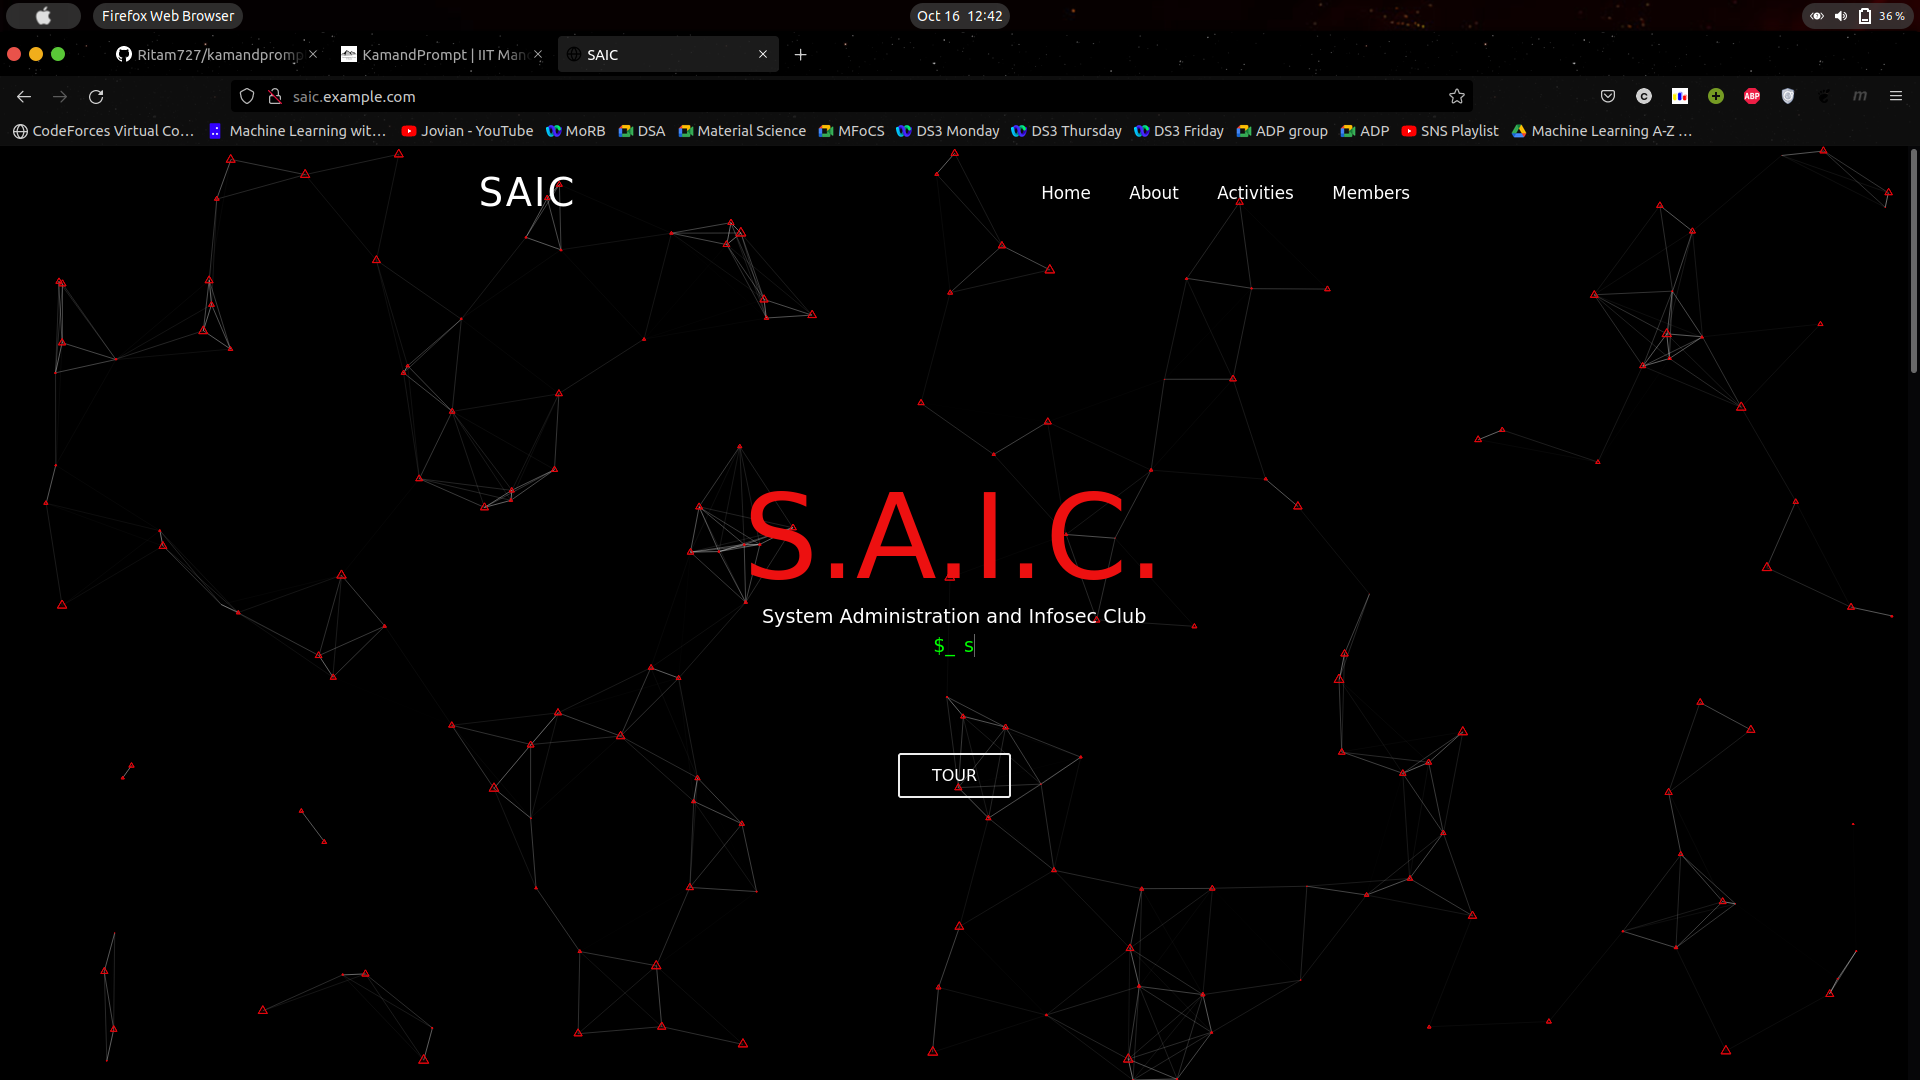
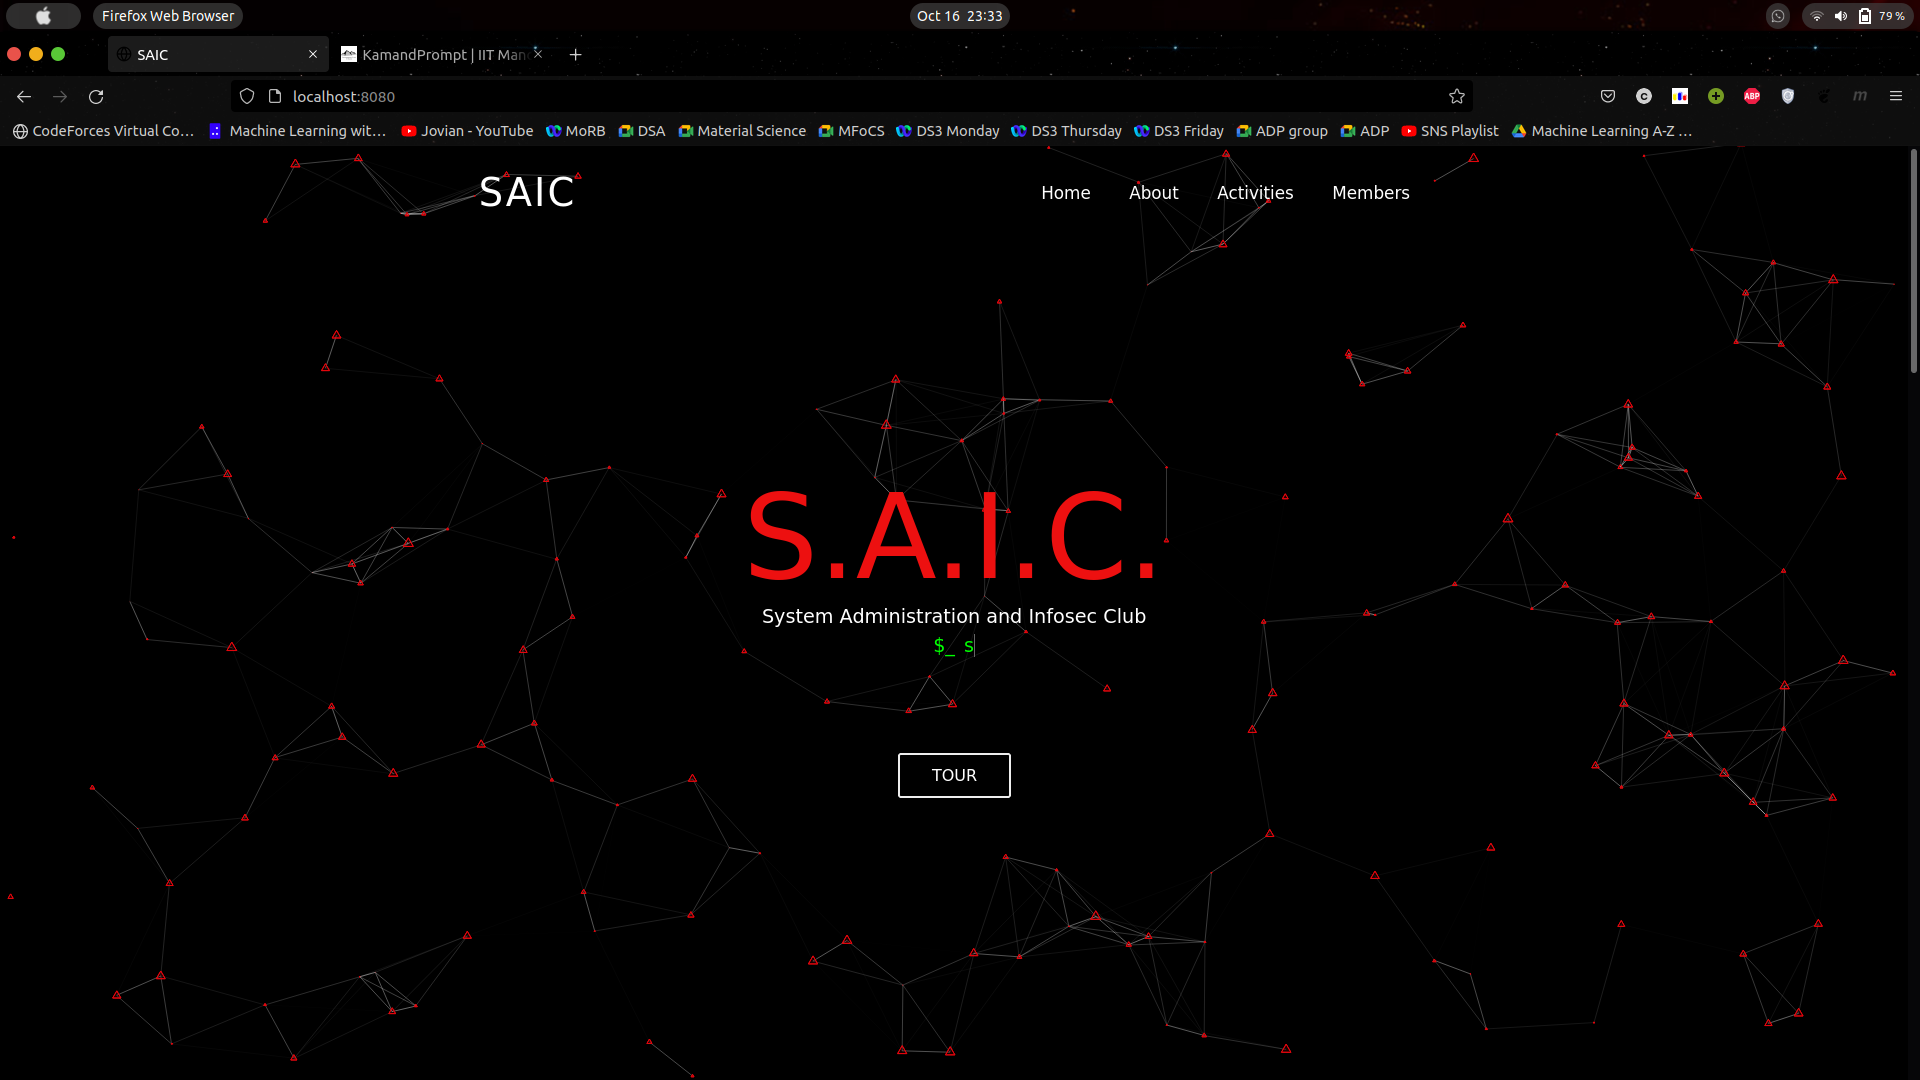
Finalized Task3

diff --git a/task3.md b/task3.md
@@ -1,17 +1,38 @@
 # Task 3
 After installing docker, I was basically lost, I didn't know anything about how the program works. So all I had with me was our best friend **Google**.
 
-Since we had to host two *static websites*, so I decided to simply implement a workflow only with static websites. Since hosting works with a server, I had to find a way to use a server and host the websites on it using docker. So I first tested out with a basic **Hello World** html file and the apache2 image from docker which uses apache web server. This was a fairly easy task since we ran a single website on a single docker. But the main challenge here is to run both websites  from the same container.
+Since we had to host two *static websites*, so I decided to simply implement a workflow only with static websites. Since hosting works with a server, I had to find a way to use a server and host the websites on it using docker. So I first tested out with a basic **Hello World** html file and the apache2 image from docker which uses apache web server. This was a fairly easy task since we ran a single website on a single container. But the main challenge here wass to run both websites from the same container.
 
-So I did the following steps:
-1. Create a new directory and clone both the repositories in that directory:
-
-    `$ mkdir saic_test && cd saic_test/`
-
-    `$ git clone git@github.com:Ritam727/kamandprompt.github.io.git`
+So I searched for some workarounds. I found out that it is possible to set up virtual hosts with a webserver and use different ports on the same ip address for two different websites.I used ubuntu/apache2 image from docker to run the server. The process I followed is described in the following steps:
+1. Clone both the repositories in a common directory:
+    
+    `$ mkdir saic && cd saic/`
 
     `$ git clone git@github.com:Ritam727/SAIC-Website.git`
-2. Create a Dockerfile and configure the commands and server to use:
+
+    `$ git clone git@github.com:Ritam727/kamandprompt.github.io.git`
+2. Create a configuration file for the webserver, set up two ports for two websites:
+    
+    `$ nano saic_test.conf`
+
+    Inside the editor, I wrote the following lines, saved and quit the editor:
+
+    ```
+    <VirtualHost *:80>
+        ServerName localhost
+        DocumentRoot /var/www/saic_website
+    </VirtualHost>
+
+    Listen 81
+    <VirtualHost *:81>
+        ServerName localhost
+        DocumentRoot /var/www/kp_website
+        Redirect permanent /blog http://blog.pc.iitmandi.co.in
+    </VirtualHost>
+    ```
+
+    The `Listen 81` command is necessary to instantiate the port 81 and the `Redirect permanent /blog http://blog.pc.iitmandi.co.in` is necessary to redirect the link to the designated site.
+3. Create the Dockerfile:
 
     `$ nano Dockerfile`
 
@@ -19,83 +40,50 @@ So I did the following steps:
 
     ```
     FROM ubuntu/apache2:2.4-20.04_beta
-    COPY SAIC-Website/. /var/www/saic.example.com
-    COPY saic.example.com.conf /etc/apache2/sites-available/
-    RUN a2ensite saic.example.com
-    COPY kamandprompt.github.io/. /var/www/kp.example.com
-    COPY kp.example.com.conf /etc/apache2/sites-available/
-    RUN a2ensite kp.example.com
+    COPY SAIC-Website/. /var/www/saic_website
+    COPY kamandprompt.github.io/. /var/www/kp_website
+    COPY saic_test.conf /etc/apache2/sites-available/
+    RUN a2ensite saic_test
     RUN service apache2 start
     ```
-3. Create the files mentioned in the Dockerfile and enter the following lines:
 
-    `$ nano saic.example.com.conf`
-
-    Inside the file enter the following lines and save the file:
+    This file would be used to run the create the docker image.
+4. Build the docker image and test it locally:
     
-    ```
-    <VirtualHost>
-        ServerName saic.example.com
-        DocumentRoot /var/www/saic.example.com
-    </VirtualHost>
-    ```
-
-    `$ nano kp.example.com.conf`
-
-    Inside the editor, enter the following lines and save the file:
-
-    ```
-    <VirtualHost>
-        ServerName kp.example.com
-        DocumentRoot /var/www/kp.example.com
-    </VirtualHost>
-    ```
-4. Change the file called etc/hosts in my **local machine**(this step is necessary):
-
-    `$ sudo nano /etc/hosts`
-
-    Add the following lines to the end of the file:
-
-    ```
-    127.0.0.1       saic.example.com
-    127.0.0.1       kp.example.com
-    ```
-
-    This change ensures that the above domains work in the local system.
-5. Then I used `build` command to build the *container*.
+    The following command is used to generate an image for your user id in docker hub and use the Dockerfile created:
     
-    `$ sudo docker build -t zblaster/saic_test:latest .`
+    `$ sudo docker build -t <user-name>/<package-name>:[TAG] .`
 
-    This builds the image and makes it ready for publication. For running the image:
+    In my case, the command was:
+    
+    `$ sudo docker build -t zblaster/saic:latest .`
 
-    `$ sudo docker run -dit --name saic -p 80:80 zblaster/saic_test:latest`
+    Then, to run the image in a container, the following command is used:
 
-    This command runs the image on port 80 of the above mentioned domains.
+    `$ sudo docker run -dit <other-flags> <user-name>/<package-name>:[TAG]`
 
-**Saic Website**
-![Saic Image](/images/task3_saic.png)
+    In my case the following command was used:
 
-We can see that the SAIC website is up and running on `saic.example.com`
+    `$ sudo docker run -dit --name saic -p 8080:80 -p 8081:81 zblaster/saic:latest`
 
-**KamandPrompt Website**
-![KamandPrompt Image](/images/task3_kp.png)
+    This binds the port 8080 of localhost to 80 of the container and 8081 of localhost to 81 of container. So the SAIC website would be hosted on `localhost:8080` and the KamandPrompt website on `localhost:8081`.
 
-We can see that the KamandPrompt website is up and running on `kp.example.com`
+    ![Saic Website](/images/task3_saic.png)
+    We can see that the SAIC website is up and running on `localhost:8080`.
 
-Then I published the image to [Docker Hub](https://hub.docker.com):
+    ![KamandPrompt Website](/images/task3_kp.png)
+    We can see that the KamandPrompt website is up and running on `localhost:8081`.
+5. Publishing the docker image and commands to be used by other users if the they want to use the image:
+    
+    `$ sudo docker push zblaster/saic:latest`
 
-`$ sudo docker push zblaster/saic_website:latest`
+    This publishes the image to [Docker hub](https://hub.docker.com).
 
-So, if anybody on the internet wants to use it, they can run the docker and then run the script named `add_ip.sh` which can be found in this repo, and they are good to go:
+    For other users, they can run the image locally using the following command:
 
-`$ sudo docker run -dit --name <container-name> -p [PORT]:80 zblaster/saic_test:latest`
+    `$ sudo docker run -dit --name [container-name] -p [PORT1]:80 -p [PORT2]:81 zblaster/saic:latest`
 
-`$ sudo ./add_ip.sh`
-
-What this script does is quite simple, it maps the 127.0.0.1 ip address with two custom domains, namely saic.example.com and kp.example.com, so the user doesn't have to add these ip addresses manually after starting the container.
-
-Then the users can check the sites on `saic.example.com:<PORT>` and `kp.example.com:<PORT>`, where `<PORT>` has to be replaced by the port they specified in the command.
-
+    Replace *container-name* with whatever they like, *PORT1* and *PORT2* with whichever port they find suitable. Then the SAIC and KamandPrompt websites would be hosted on `localhost:PORT1` and `localhost:PORT2` respectively.
 
 ---
 ---
